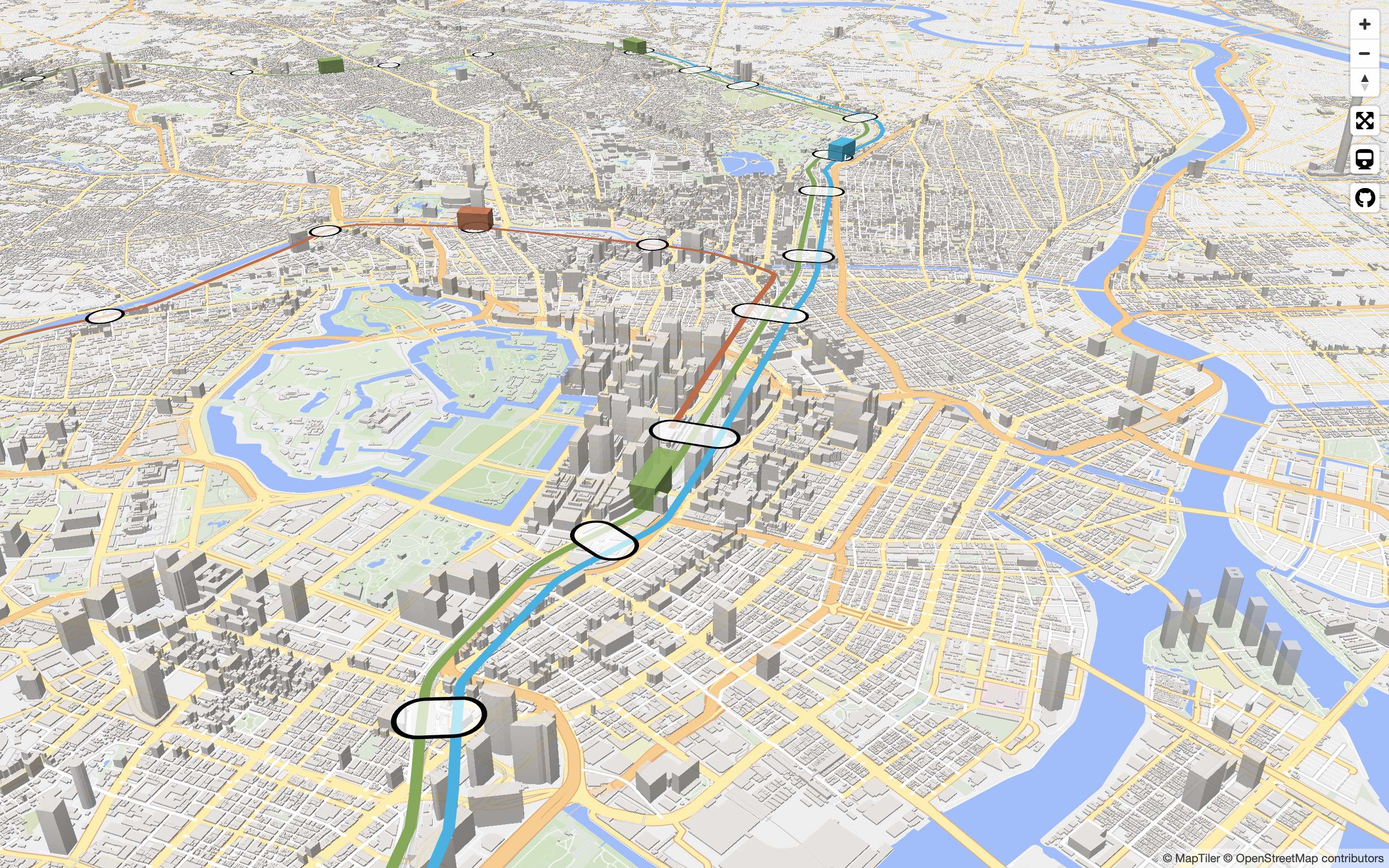
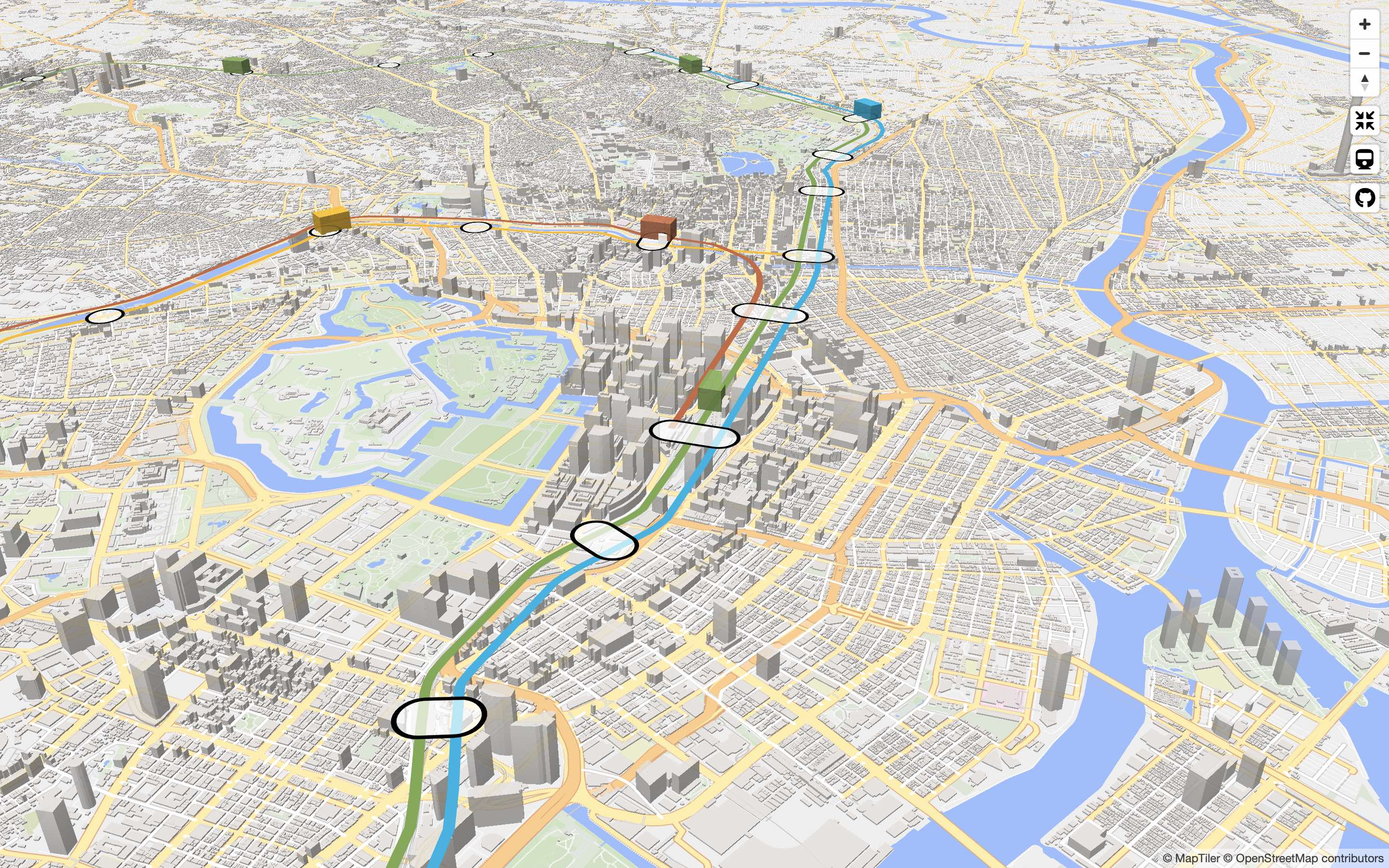
Add sobu line

diff --git a/js/main.js b/js/main.js
@@ -46,7 +46,7 @@ map.addControl(new MapboxGLButtonControl({
 	className: 'mapbox-gl-track',
 	title: '追跡',
 	eventHandler: function() {
-		trackedCar = trackedCar === undefined ? 0 : trackedCar === 9 ? undefined : trackedCar + 1;
+		trackedCar = trackedCar === undefined ? 0 : trackedCar === 11 ? undefined : trackedCar + 1;
 	}
 }), 'top-right');
 map.addControl(new MapboxGLButtonControl({
@@ -100,9 +100,16 @@ var lineCollection = turf.featureCollection(lineData.lines.map(function(line) {
 				overlap.feature
 			), subline.offset * .125);
 			stations = overlap.stations;
+
+			// Rewind if the overlap line is in opposite direction
 			if (stations.indexOf(start) > stations.indexOf(end)) {
 				turf.rewind(subline.feature, {mutate: true});
 			}
+
+			/* Exclude invaild points that can be generated by lineOffset
+			subline.feature.geometry.coordinates = turf.getCoords(subline.feature).filter(function(coords) {
+				return !isNaN(coords[0]) && !isNaN(coords[1]);
+			}); */
 		}
 
 		return subline;
@@ -121,7 +128,7 @@ var lineCollection = turf.featureCollection(lineData.lines.map(function(line) {
 				turf.point(stationLookup[stationName].coords),
 				turf.point(nextCoordinates[CoordsIndex])
 			);
-			var j, p1, p2, distance;
+			var j, p1, p2, distance, bearing, lineBearing, angle;
 
 			for (j = start; j !== end; j += step) {
 				p1 = turf.point(coordinates[j]);
@@ -130,10 +137,16 @@ var lineCollection = turf.featureCollection(lineData.lines.map(function(line) {
 				if (distance > offset * 5) {
 					break;
 				}
+				bearing = turf.bearing(p2, p1);
+				lineBearing = turf.bearing(
+					turf.point(turf.getCoords(feature)[p2.properties.index]),
+					turf.point(turf.getCoords(feature)[p2.properties.index + 1])
+				);
+				angle = (bearing - lineBearing + 540) % 360 - 180;
 				coordinates[j] = turf.getCoord(turf.transformTranslate(
 					p1,
 					distance <= offset ? offset : offset - (distance - offset) / 4,
-					turf.bearing(p2, p1) + (nextSubline.offset < 0 ? 180 : 0)
+					bearing + (nextSubline.offset * angle < 0 ? 180 : 0)
 				));
 			}
 			coordinates[start] = nextCoordinates[CoordsIndex];
@@ -164,10 +177,21 @@ var lineCollection = turf.featureCollection(lineData.lines.map(function(line) {
 	// Set station offsets
 	var start = stationLookup[line.stations[0]];
 	line.stationOffsets = stations.slice(0, -1).map(function(station) {
+
+		/* For development
+		if (line.name === 'sobu') {
+			console.log(station, getPointAndBearing(line.feature, turf.length(turf.lineSlice(
+				turf.point(start.coords),
+				turf.point(stationLookup[station].coords),
+				line.feature)
+			), 1).bearing);
+		} */
+
 		return turf.length(turf.lineSlice(
 			turf.point(start.coords),
 			turf.point(stationLookup[station].coords),
-		line.feature));
+			line.feature
+		));
 	});
 
 	// Make sure the last offset is equal to the length
